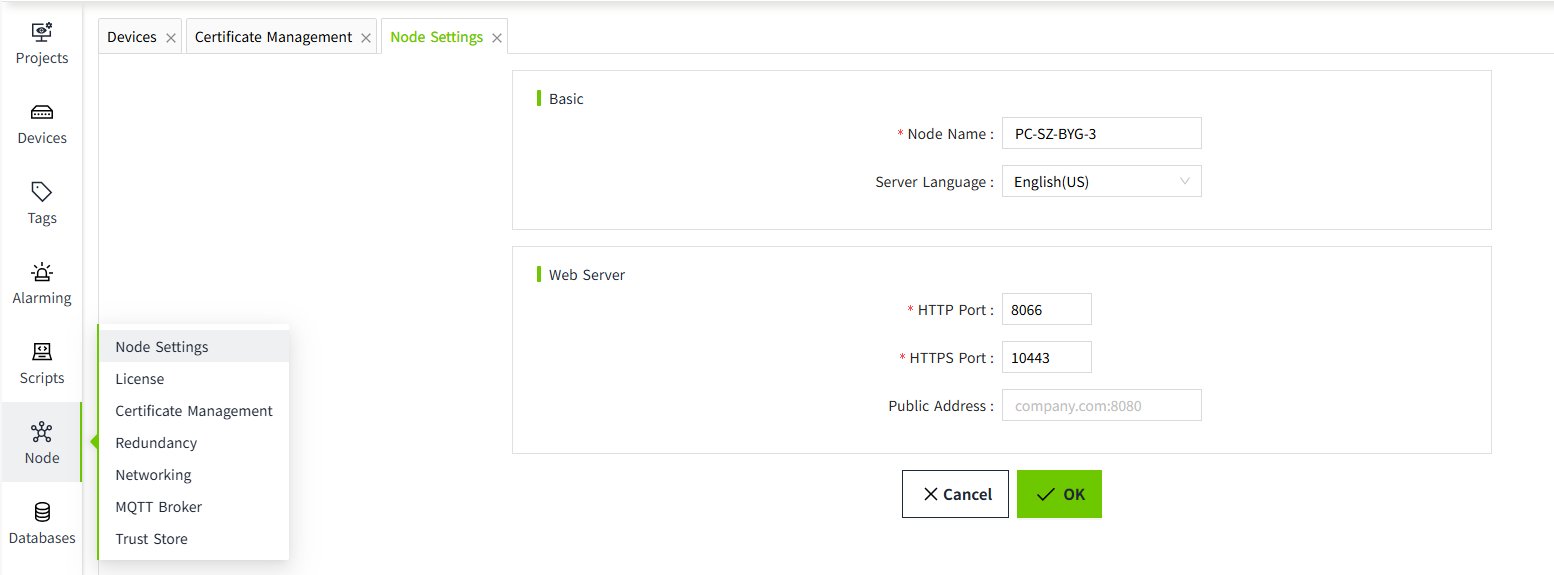
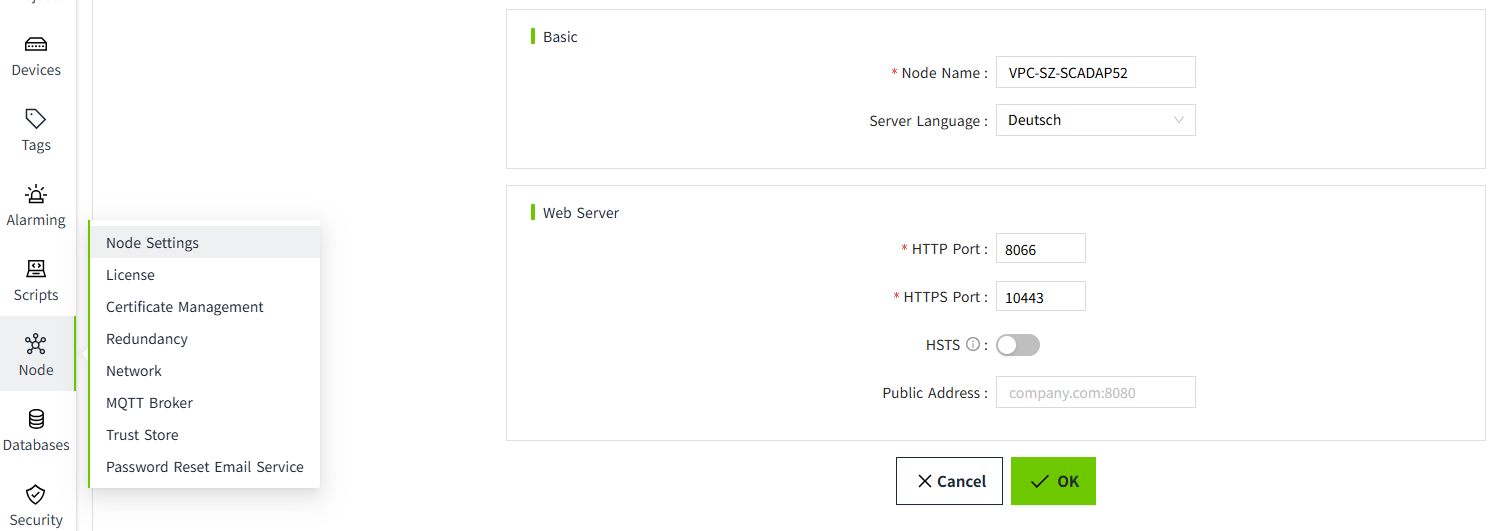
1

diff --git a/docs/installation(on-premise)/windows-environment.md b/docs/installation(on-premise)/windows-environment.md
@@ -14,29 +14,29 @@ Recommended Systems for Installation:
 ## **Installation Steps**
 
 1. Run the installation package program as an administrator.
-2. Select the installation language.
-   <br>![alt text](5.png)
-3. Perform a port check, if the port is occupied, the installation cannot proceed. 
+2. Select the installation language.<br>
+      ![alt text](5.png)
+3. Perform a port check, if the port is occupied, the installation cannot proceed. <br>
       ![alt text](6.png)
-4. Read and accept the license agreement.
+4. Read and accept the license agreement.<br>
       ![alt text](7.png)
-5. Choose the installation location; the default path is: "C:\Program Files\WAGO Visualization And Control Hub".
+5. Choose the installation location; the default path is: "C:\Program Files\WAGO Visualization And Control Hub".<br>
       ![alt text](8.png)
-6. Select the VC Hub application data directory.
+6. Select the VC Hub application data directory.<br>
       ![alt text](9.png)
-7. Prepare for installation.
+7. Prepare for installation.<br>
       ![alt text](10.png)
-8. The installation is complete.
+8. The installation is complete.<br>
       ![alt text](11.png)
 9. After completion, the default access to the VC Hub site is: `http://localhost:8066`. After the installation, you will enter the configuration wizard interface.
 
 ## **Configuration Steps**
 
-1. Create an administrator user. Remember this username and password, as you will use them to log in for the first time. 
+1. Create an administrator user. Remember this username and password, as you will use them to log in for the first time. <br>
       ![alt text](12.png)
-2. Port configuration, configure HTTP, HTTPS ports, and remember the access port. 
+2. Port configuration, configure HTTP, HTTPS ports, and remember the access port. <br>
       ![alt text](13.png)
-3. Configure HTTPS connection and certificate.  
+3. Configure HTTPS connection and certificate. <br>
       ![alt text](52.png)   
 4. After completing the above steps, wait for the program to load, and then you can log in to the default-created workspace with the user created in step 1.
 

diff --git a/docs/management-platform/node-configuration(on-premise)/index.md b/docs/management-platform/node-configuration(on-premise)/index.md
@@ -11,5 +11,6 @@ Click on **Node** -> **Node Settings** to configure the current node information
 | Server Language | The server-side language of the VC Hub program.  |
 | HTTP Port       | Default 8066, supports modification to configure the HTTP port for the web service.  |
 | HTTPS Port      | Default 10043, support modification, configure the HTTPS port of the web service.  |
+| HSTS     | HTTP Strict Transport Security forces browsers to connect over HTTPS only. Make sure a valid HTTPS certificate is configured before enabling it. |
 | Public Address  | Network address for the external network, mainly used for runtime page master-backup switchover.  |
 
